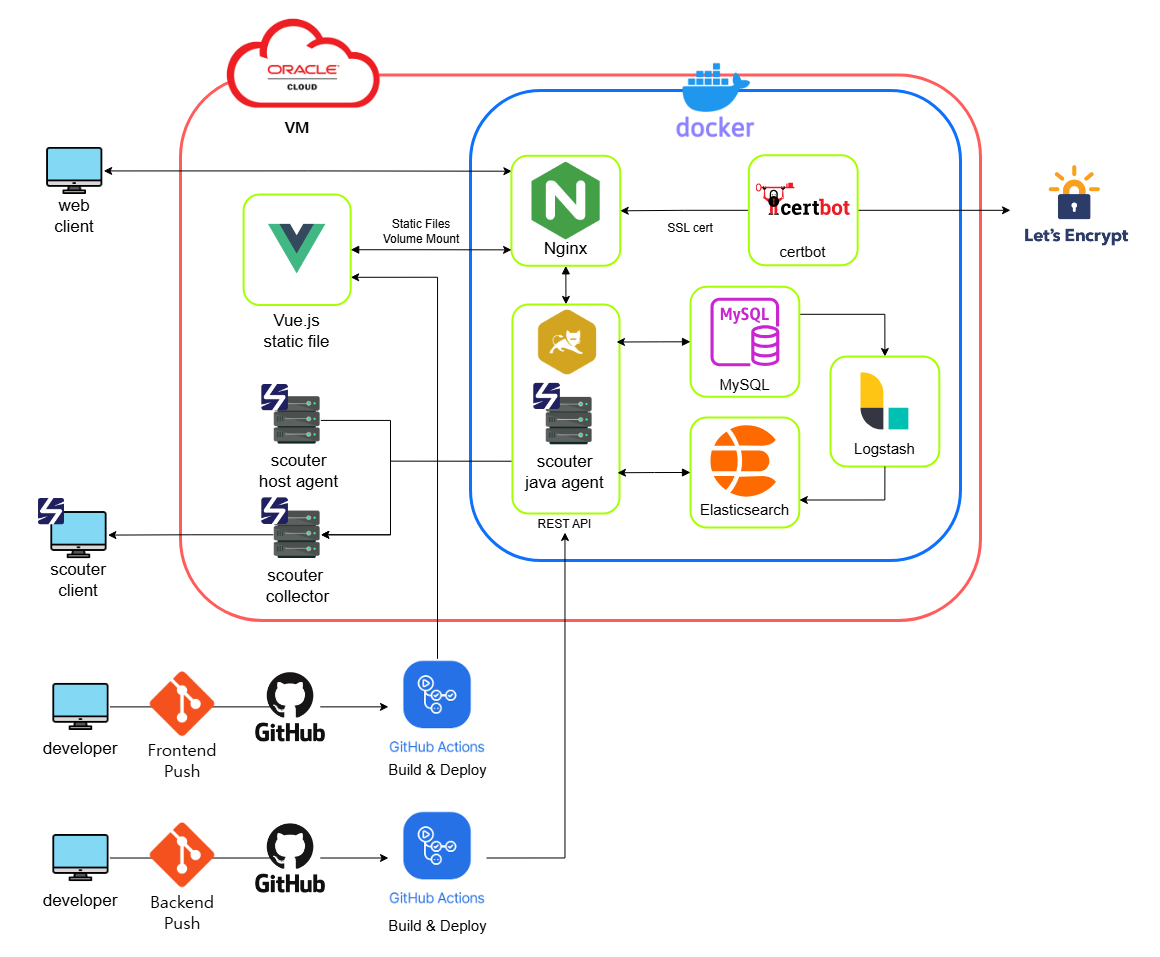
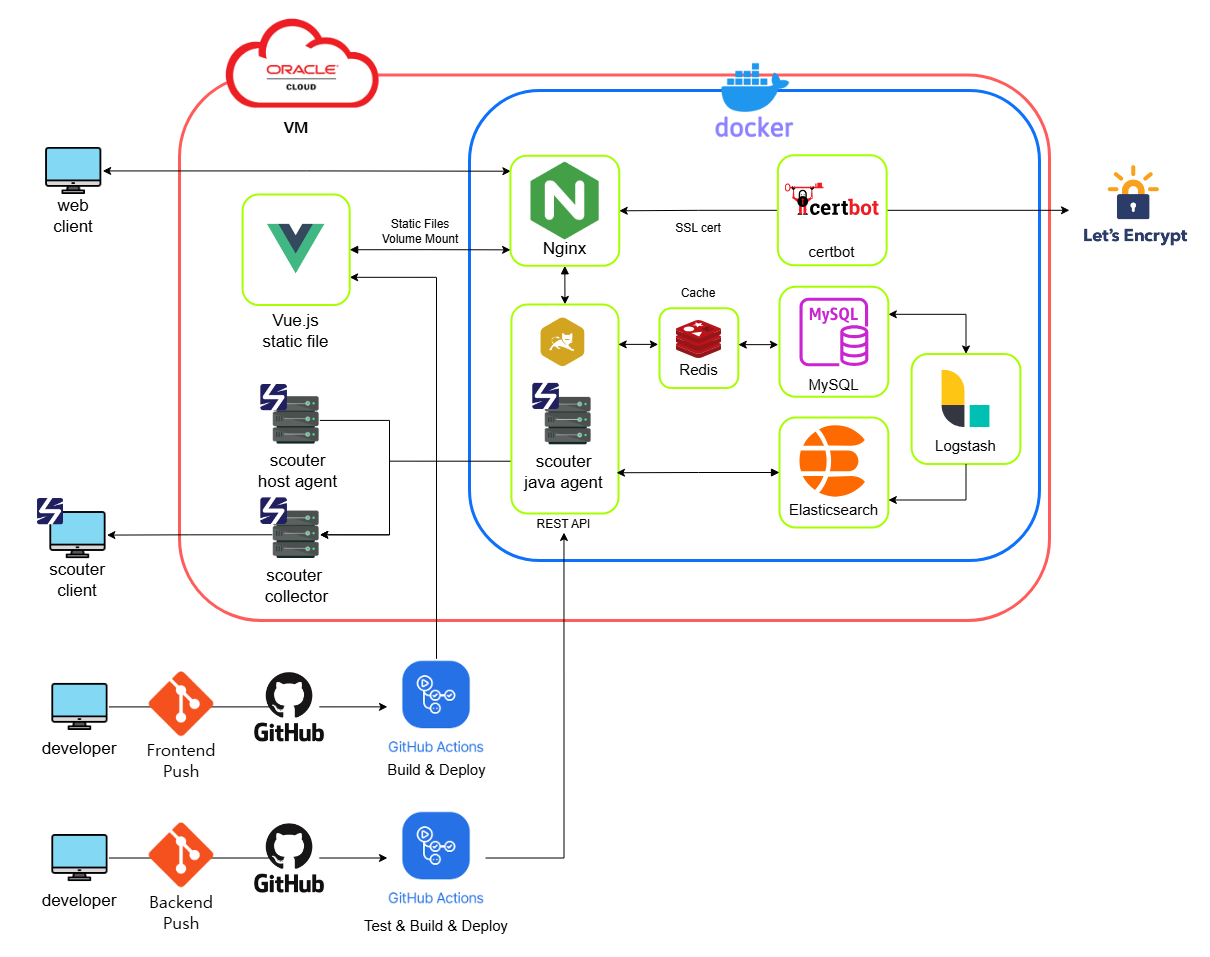
update

diff --git a/resume.html b/resume.html
@@ -113,7 +113,7 @@
                     </ul>
                 </div>
 
-                <p class="area_title">경력 및 프로젝트 경험</p>
+                <p class="area_title">경력</p>
                 <p class="area_sub_title">2019.10 ~ 2024.08 (총 4년 11개월)</p>
                 <div class="line"></div>
                 <div class="section flex">
@@ -157,16 +157,17 @@
                 </div>
                 <p class="exp_content_list_title">문제 해결</p>
                 <ul class="exp_content_list">
-                    <li class="exp_content bold">개발팀 Next.js 이해도 부족 문제</li>
+                    <li class="exp_content bold" style="margin-bottom: 5px;">개발팀 Next.js 이해도 부족 문제</li>
                     <li class="exp_content list">
-                        주문/결제 데이터 관리 백오피스의 사용성과 유지보수성을 높이기 위해서 Angular, Vue, React와 같은 프레임워크나 라이브러리를 고려할 수 있었지만 Next.js의 디렉토리 기반 라우팅 기능과
-                        SSR을 쉽게 구현할 수 있는 등 초기 로딩 속도와 생산성을 높일 수 있다는 큰 장점이 있어 Next.js를 선택하게 되었습니다.
-                        당시 저는 Next.js에 대해 지식이 부족했기에 개인적으로 학습하여 기초 개념을 익혀나갔지만 개발팀의 Next.js에 대한 이해도가 부족하다는 문제가 있었습니다.
+                        <b>상황: </b>Angular, Vue, React와 같은 프레임워크나 라이브러리를 고려할 수 있었지만 Next.js의 디렉토리 기반 라우팅 기능과
+                        SSR을 쉽게 구현할 수 있는 등 초기 로딩 속도와 생산성 등을 높일 수 있다는 큰 장점이 있어 Next.js를 선택하게 되었으나
+                        개발팀의 Next.js에 대한 이해도가 부족하다는 문제 발생.
+                    </li>
+                    <li class="exp_content list" style="margin-top: 5px;">
+                        <b>과정 및 결과: </b>Next.js를 선택한 이유에 대해 체계적으로 문서화하여 개발 팀원들을 초청해 <b>세미나 진행.</b>
                         <br/>
-                        <br/>
-                        이를 위해 Next.js를 선택한 이유에 대해 체계적으로 문서화하여 개발 팀원들을 초청해 세미나를 진행하였습니다.
                         세미나에서는 기존 Nexacro로 개발된 백오피스의 단점을 설명 후 기존 백오피스의 일부 페이지를 Next.js로 구현한 예시와 함께
-                        디렉토리 기반 라우팅, SSR 등 주요 개념과 장점을 다뤘습니다. 이를 통해 개발 팀원들의 Next.js 마이그레이션에 대한 긍정적인 반응과 Next.js에 대한 기본적인 이해를 갖출 수 있게 되었습니다.
+                        디렉토리 기반 라우팅, SSR 등 주요 개념과 장점에 대해 다룬 결과 개발 팀원들의 Next.js 마이그레이션에 대한 긍정적인 반응과 Next.js에 대한 기본적인 이해를 갖출 수 있게됨.
                     </li>
                 </ul>
 
@@ -205,20 +206,20 @@
 
                     <p class="exp_content_list_title">문제 해결</p>
                     <ul class="exp_content_list">
-                        <li class="exp_content bold">서비스 간 통신 구조에서 예외 발생 시 데이터 무결성 깨지는 문제</li>
+                        <li class="exp_content bold" style="margin-bottom: 5px;">서비스 간 통신 구조에서 예외 발생 시 데이터 무결성 깨지는 문제</li>
                         <li class="exp_content list">
-                            협력사에게 제공해야 했던 API 중 회원 정보 수정 API는 현 백엔드 서버와 타 백엔드 서버 양쪽 DB 데이터를 수정해야 했기에
-                            백엔드 서버 하나라도 예외가 발생하면 데이터 무결성이 깨지는 문제가 있었습니다.
+                            <b>상황: </b>협력사에게 제공해야 했던 API 중 회원 정보 수정 API는 현 백엔드 서버와 타 백엔드 서버 양쪽 DB 데이터를 수정해야 했기에
+                            백엔드 서버 하나라도 예외가 발생하면 <b>데이터 무결성</b>이 깨지는 상황 발생.
+                        </li>
+                        <li class="exp_content list" style="margin-top: 5px;">
+                            <b>과정 및 결과: </b>@Transactional 어노테이션을 활용해 메소드 트랜잭션 단위 관리 및
+                            타 서비스와의 통신에서 발생할 예외를 처리하는 <b>롤백 시나리오</b>를 구현하여 데이터 무결성을 유지함.
                             <br/>
+                            1. 타 백엔드 API 먼저 호출하여 해당 API에서 예외 발생 시 트랜잭션 롤백 후 클라이언트에게 실패 응답 반환
                             <br/>
-                            이를 해결하기 위해 메소드에 @Transactional 어노테이션을 적용하여 예외 발생 시 트랜잭션 롤백 되도록 구성하고
-                            타 서비스와의 통신 과정에서 발생할 예외를 대비해 <b>롤백 시나리오</b>를 세워 구현한 결과 데이터 무결성을 유지할 수 있었습니다.
+                            2. 타 백엔드 API가 성공 응답 시 본 시스템에서 데이터 수정 진행. 이때 예외 발생 시 롤백 후 타 백엔드 서버 롤백 API 호출 후 클라이언트에게 실패 응답 반환
                             <br/>
-                            1. 타 백엔드 API를 먼저 호출하여 타 백엔드에서 예외 발생 시 롤백 후 클라이언트에게 실패 응답
-                            <br/>
-                            2. 타 백엔드 API 성공 응답 받을 경우 현 백엔드에서 데이터 수정 진행하여 예외 발생 시 롤백 후 타 백엔드 서버 롤백 API 호출
-                            <br/>
-                            3. 모두 성공 시 클라이언트에게 성공 응답
+                            3. 모든 단계 성공적으로 완료 시 클라이언트에게 성공 응답 반환
                         </li>
                     </ul>
 
@@ -290,11 +291,12 @@
 
                         <p class="exp_content_list_title">문제 해결</p>
                         <ul class="exp_content_list">
-                            <li class="exp_content bold">공통적으로 분류되는 수정 대상 코드 공통 모듈로 처리</li>
+                            <li class="exp_content bold" style="margin-bottom: 5px;">공통적으로 분류되는 수정 대상 코드 공통 모듈로 처리</li>
                             <li class="exp_content list">
-                                회원/주문 관계가 변경됨으로 인해 회원 정보를 보여주는 페이지에 회원 별 진행 중인 학습 상품을 보여줘야 했던 모든 부분을 수정해야 했으나
-                                각각 쿼리문을 수정하기엔 비용이 크다고 판단되어 공통 모듈을 작성해 회원 ID들의 학습 상품 정보들을 조회하도록 하여
-                                유지보수성을 높이고 테스트 케이스를 작성해 코드의 무결성을 높였습니다.
+                                <b>상황: </b>회원/주문 관계가 변경됨으로 인해 회원 별 진행 중인 학습 상품을 보여줘야 했던 모든 부분을 수정해야하는 상황.
+                            </li>
+                            <li class="exp_content list" style="margin-top: 5px;">
+                                <b>과정 및 결과: </b>회원 ID 별 학습 상품 정보 조회하는 공통 모듈 작성 및 적용하여 생산성과 재사용성을 높이고 테스트 케이스를 작성해 코드의 무결성을 높임.
                             </li>
                         </ul>
 
@@ -380,18 +382,14 @@
 
                     <p class="exp_content_list_title">문제 해결</p>
                     <ul class="exp_content_list">
-                        <li class="exp_content bold">데이터 처리의 느린 성능 및 정확성 문제</li>
+                        <li class="exp_content bold" style="margin-bottom: 5px;">데이터 처리의 느린 성능 및 정확성 문제</li>
                         <li class="exp_content list">
-                            약 10만 건 이상의 raw 데이터를 통계 데이터로 가공하여 저장하는 배치 성능 테스트를 진행하기 위해
-                            개발 환경 DB에 약 10만 건의 데이터를 세팅 후 실행해 본 결과
-                            단일 스레드 기반으로 실행되기에 약 3분 정도 소요되었으며 처리 속도가 느리다는 문제가 있었고 운영 환경의 데이터로 처리할 경우 데이터 정확성을 보장하기 어려웠습니다.
-                            <br/>
-                            <br/>
-                            이를 해결하기 위해 <b>Fork/Join 프레임워크</b>를 통해 데이터를 병렬로 분산 처리하는 방식을 도입하여
-                            데이터 처리 작업을 여러 작업 단위로 나눠 병렬로 실행함으로써 배치 처리 시간을 약 <b>67%</b> 단축(3분 → 1분)하여 느린 처리 속도를 개선할 수 있었고
-                            <br/>
-                            raw 데이터를 정확하게 처리하기 위해 Fake raw 데이터를 설정 후 정확한 통계 데이터로 가공이 되는지에 대한 테스트 코드를 작성하여
-                            데이터 처리 로직의 무결성을 높인 결과 운영 환경에서 배치를 통해 정확한 통계 데이터를 만들어 낼 수 있었습니다.
+                            <b>상황: </b>약 10만 건 이상의 raw 데이터를 통계 데이터로 가공하여 저장하는 배치 성능 테스트를 진행하기 위해 개발 환경 DB에 약 10만 건의 데이터를 세팅 후 실행해 본 결과
+                            단일 스레드 기반으로 약 3분 정도 소요되어 처리 속도가 느리다는 문제가 있었고 운영 환경의 데이터로 처리할 경우 데이터 정확성을 보장하기 어려웠음.
+                        </li>
+                        <li class="exp_content list" style="margin-top: 5px;">
+                            <b>과정 및 결과: </b><b>Fork/Join 프레임워크</b>를 통해 데이터를 병렬로 분산 처리하는 방식을 도입하여 배치 처리 시간을 약 <b>67%</b> 단축(3분 → 1분)하여 처리 속도를 개선할 수 있었고
+                            Fake raw 데이터를 기반으로 정확한 통계 데이터로 가공 되는지에 대해 테스트 케이스를 작성하고 검증한 결과 운영 환경에서도 정확한 통계 데이터를 만들어 낼 수 있었음.
                         </li>
                     </ul>
 
@@ -460,6 +458,15 @@
                 <p class="large_sub_title">사이드 프로젝트 1인 개발(2023.06 ~ 진행중)</p>
                 <p style="font-weight: 500; margin-top: 10px;">
                     다양한 분야의 용어를 퀴즈 형태로 등록하여 학습할 수 있는 용어 암기 서비스입니다.
+                    <br/>
+                    <br/>
+                    <b>개발 계기</b>
+                    <br/>
+                    어떤 직종에 종사하거나 시험 준비 과정에서 용어를 학습할 필요성이 느껴질 때가 많습니다.
+                    <br/>
+                    다만 용어의 정의는 사람마다 다르게 생각할 수 있고, 관점에 따라 용어의 뜻이 달라질 수 있어
+                    <br/>
+                    용어의 다양한 정의를 한곳에 모으고 단순 암기를 넘어 깊이 있는 학습을 돕고자 WIZLQ를 개발하게 되었습니다.
                 </p>
                 <p style="font-weight: bold; margin-top: 10px;">서비스 URL</p>
                 <a href="https://wizlq.com" target="_blank" class="link" style="width: 135px;">https://wizlq.com</a>
@@ -498,6 +505,7 @@
                         <p class="skill scouter">Scouter</p>
                         <p class="skill elasticsearch">Elasticsearch</p>
                         <p class="skill logstash">Logstash</p>
+                        <p class="skill redis">Redis</p>
                     </div>
                 </div>
             </div>
@@ -510,74 +518,69 @@
             <div class="content">
                 <p class="exp_content_list_title">문제 해결</p>
                 <ul class="exp_content_list">
-                    <li class="exp_content bold">클라이언트 인증 상태 유지 문제</li>
-                    <li class="exp_content list" style="margin-bottom: 15px;">
-                        프로젝트 초기엔 세션 기반 인증 방식을 도입하여 로그인 후 클라이언트의 인증 상태를 백엔드 서버 세션으로 관리했으나
-                        서버 재시작 시 세션 데이터 손실되어 사용자가 재로그인이 해야 하는 문제가 발생하였습니다.
-                        <br/>
-                        <br/>
-                        이를 해결하기 위해서 <b>Session Clustering</b>이나 별도 <b>세션 저장소</b> 등을 활용해 세션 정보를 유지하는 방법을 검토했습니다.
-                        하지만 당시 백엔드 서버는 단일 인스턴스로 구성되어 있었고 서버를 하나 이상 추가하여 모든 서버가 동일한 세션 정보를 공유하도록 설정할 경우
-                        메모리 사용량이 많아질 것이라고 판단했고
-                        <br/>
-                        Redis 같은 저장소를 도입하여 세션 정보를 유지할 수는 있지만
-                        추가적인 네트워크 비용과 Redis의 장애를 대비하기 위해 클러스터링 환경을 구성해야 하는 등 운영 복잡성이 증가한다는 문제가 있어
-                        다른 방법을 알아보던 중 <b>JWT 기반 인증 방식</b>을 알게 되었습니다.
-                        <br/>
-                        <br/>
-                        JWT는 로그인 후 서버가 클라이언트에게 유효한 Access Token을 발급하고, 이후 클라이언트는 요청 시 전달되는 Access Token을 서버에서 유효성 검증만을 하는 구조로 동작되기 때문에
-                        <b>JWT 기반 인증 방식을 도입한 결과</b> 백엔드 서버는 <b>Stateless</b> 구조로 전환되어 RESTful 아키텍처 원칙을 준수하는 등 확장성을 높일 수 있었고
-                        서버가 재시작되어도 클라이언트는 인증 상태를 유지할 수 있게 되었습니다.
+                    <li class="exp_content bold" style="margin-bottom: 5px;">클라이언트 인증 상태 유지 문제</li>
+                    <li class="exp_content list">
+                        <b>상황: </b>프로젝트 초기엔 세션 기반 인증 방식을 도입하여 로그인 후 클라이언트의 인증 상태를 백엔드 서버 세션으로 관리했으나
+                        서버 재시작 시 세션 데이터 손실되어 사용자가 재로그인이 해야 하는 문제 발생.
+                    </li>
+                    <li class="exp_content list" style="margin-top: 5px;">
+                        <b>과정: </b>Session Clustering</b>이나 별도 <b>세션 저장소</b> 등을 활용해 세션 정보를 유지하는 방법을 검토한 결과
+                        Session Clustering은 사용자가 많아질 수록 메모리 사용량이 많아질 것이라고 판단했고 별도 세션 저장소를 도입할 경우
+                        추가적인 네트워크 비용과 저장소의 장애를 대비하기 위해 클러스터링 환경을 구성해야 하는 등 운영 복잡성의 증가 문제로 인해 JWT 방식을 도입하기로 결정.
+                    </li>
+                    <li class="exp_content list" style="margin-top: 5px;">
+                        <b>결과: </b>JWT는 로그인 후 서버가 클라이언트에게 유효한 Access Token을 발급하고, 이후 클라이언트는 요청 시 전달되는 Access Token을 서버가 받아 유효성 검증만을 하는 구조로 동작되기 때문에
+                        백엔드 서버는 <b>Stateless</b> 구조로 전환되어 성능과 RESTful 아키텍처 원칙을 준수하는 등 확장성을 높일 수 있었고 서버가 재시작되어도 클라이언트는 인증 상태를 유지할 수 있게 되었음.
                     </li>
 
-                    <li class="exp_content bold">로그 파일의 디스크 용량 문제</li>
-                    <li class="exp_content list" style="margin-bottom: 15px;">
-                        로그 라이브러리로 사용된 <b>Log4j2</b>를 이용해 로그를 기록했지만 로그 파일이 지속적으로 증가함으로써 추후 디스크 용량을 초과할 것이란 문제가 있었습니다.
-                        <br/>
-                        <br/>
-                        이를 해결하기 위해 최소한의 로그가 기록될 수 있도록 INFO 레벨에서 DEBUG 레벨로 제한하고 <b>로테이션 정책</b>을 설정하여
-                        매일 자정마다 새로운 로그 파일로 교체되도록 설정하고, 최대 7일 분량의 로그 파일만 유지되도록 구성했습니다.
-                        <br/>
-                        그 결과 7일 이전 로그 파일은 자동으로 삭제하면서 로그 파일의 크기를 유지하고 안정성을 확보할 수 있었습니다.
+
+                    <li class="exp_content bold" style="margin-bottom: 5px; margin-top: 10px;">로그 파일의 디스크 용량 문제</li>
+                    <li class="exp_content list">
+                        <b>상황: </b>로그 라이브러리로 사용된 <b>Log4j2</b>를 이용해 로그 파일을 저장했지만 로그 파일이 지속적으로 증가함으로써 추후 디스크 용량을 초과할 것이란 문제 발생.
                     </li>
-                    <li class="exp_content bold">Table Full Scan 문제</li>
-                    <li class="exp_content list" style="margin-bottom: 15px;">
-                        모든 쿼리문은 <b>DB Optimizer</b>의 실행 계획을 통해 인덱스 참조 여부를 확인하여 최적화된 쿼리를 작성했습니다.
-                        하지만 퀴즈 검색 쿼리의 경우 제목과 내용을 검색 조건으로 LIKE %% 형태의 조건문 사용한 것이 <b>Full Table Scan</b>을 발생하는 것으로 확인되었습니다.
-                        현재 데이터양은 많지 않았지만 데이터가 증가할 경우를 대비하기 위해 개선이 필요했습니다.
+                    <li class="exp_content list" style="margin-top: 5px;">
+                        <b>과정: </b><b>Rolling Policy</b>를 활용해 매일 자정마다 새로운 로그 파일로 교체되도록 설정하고,
+                        최대 7일 분량의 로그 파일만 유지되도록 구성
+                    </li>
+                    <li class="exp_content list" style="margin-top: 5px;">
+                        <b>결과: </b>7일 이전 로그 파일은 자동으로 삭제되면서 로그 파일의 크기를 유지하고 안정성을 확보할 수 있었음.
+                    </li>
+
+
+                    <li class="exp_content bold" style="margin-bottom: 5px; margin-top: 10px;">Table Full Scan 문제</li>
+                    <li class="exp_content list">
+                        <b>상황: </b>모든 쿼리문은 <b>DB Optimizer</b>의 실행 계획을 통해 인덱스 참조 여부를 확인하여 최적화된 쿼리를 작성했으나 퀴즈 검색 쿼리의 경우
                         <br/>
-                        <br/>
-                        이를 위해 <b>Full Text Index</b>를 고려했지만 <b>Full Text Index</b>를 참조하기 위한 쿼리 작성 방식이 추후 검색 조건의 변경 가능성으로 인해 복잡성이 존재했고
-                        데이터가 많아질수록 그만큼 많은 계산 작업이 필요하기 때문에 단기적으로 성능 개선 효과를 볼 수 있지만 장기적으론 확장성과 유연성이 부족하다고 생각하였습니다.
+                        제목과 내용을 'LIKE %%' 조건문을 사용한 것이 <b>Full Table Scan</b> 발생.
+                        현재 데이터양은 많지 않았지만 데이터가 증가할 경우를 대비하기 위해 개선이 필요했음.
+                    </li>
+                    <li class="exp_content list" style="margin-top: 5px;">
+                        <b>과정: </b><b>Full Text Index</b>를 고려했지만 데이터가 많아질수록 그만큼 많은 계산 작업이 필요하기 때문에
+                        단기적으로 성능 개선 효과를 볼 수 있지만 장기적으론 확장성과 쿼리의 복잡성으로 인해 유연성이 부족하다고 생각되었음.
                         <br/>
                         반면에 <b>Elasticsearch</b>는 DB와 독립적으로 동작하는 분산형 검색 엔진으로써 높은 확장성과 성능을 가지는 특징을 가지고 있기 때문에
-                        검색 작업을 맡는 독립적인 엔진인 <b>Elasticsearch</b>를 도입하여
-                        DB 부하를 줄이고, 다양한 검색 기능과 확장성을 높이는 것이 시스템 개선에 적합하다고 판단하여 <b>Elasticsearch</b>를 도입하게 되었습니다.
-                        <br/>
-                        <br/>
-                        약 100만 건의 공공 데이터를 대상으로 LIKE %% 검색과 <b>Elasticsearch</b>를 이용한 조회 성능 비교 결과 1800ms -> <b>45ms</b>로 단축되어 약 <b>97%</b>의 성능 향상과
-                        데이터양이 증가해도 검색 속도를 유지할 수 있는 결과를 얻었습니다.
-                        <br/>
-                        또한 <b>RDB</b>와 <b>Elasticsearch</b>의 데이터 일관성을 위해 <b>Logstash</b>를 도입하여 주기적으로 <b>Elasticsearch</b>의 Document 데이터를 갱신하도록 파이프라인을 구성하여 데이터 일관성을 유지할 수 있었습니다.
+                        검색 작업을 맡는 독립적인 엔진인 <b>Elasticsearch</b>를 도입하게 되었음.
                     </li>
-                    <li class="exp_content bold">반복되는 사용자 정보 조회 로직 문제</li>
+                    <li class="exp_content list" style="margin-top: 5px;">
+                        <b>결과: </b>약 100만 건의 공공 데이터를 대상으로 LIKE %% 검색과 <b>Elasticsearch</b>를 이용한 검색 성능 비교 결과 1800ms -> <b>45ms</b>로 단축되어 약 <b>97%</b>의 성능 향상과
+                        데이터양이 증가해도 검색 속도를 유지할 수 있는 결과를 얻음.
+                        <br/>
+                        또한 <b>RDB</b>와 <b>Elasticsearch</b>의 데이터 일관성을 위해 <b>Logstash</b>를 도입하여 주기적으로 <b>Elasticsearch</b>의 Document 데이터를 갱신하도록 파이프라인을 구성하여 데이터 일관성을 유지.
+                    </li>
+
+
+                    <li class="exp_content bold" style="margin-bottom: 5px; margin-top: 10px;">반복되는 사용자 정보 조회 로직 문제</li>
                     <li class="exp_content list">
-                        API 중 호출한 사용자의 userId를 조회하여 데이터만 변경 및 삭제하는 API들이 있는데
-                        비즈니스 로직 내에서 매번 인증된 사용자 정보를 조회하는 <b>코드를 반복적으로 작성</b>하니 유지보수성이 떨어지고 비효율적이라고 생각되었습니다.
-                        공통 로직으로 분리할 수 있는 방법을 구글링으로 찾던 중
-                        Argument Resolver를 이용하면 메소드 특정 타입의 파라미터에 데이터를 주입할 수 있는 방법이 있다고 하여 적용하게 되었습니다.
-                        <br/>
-                        <br/>
-                        ex)
-                        <br/>
-                        @PostMapping("/api/quiz")
-                        <br/>
-                        public ApiResponse create(@RequestBody @Valid QuizCreateReq req, /* 사용자 정보 조회용 어노테이션 */ UserInfo userInfo){ ... }
-                        <br/>
-                        <br/>
-                        먼저 특정 타입의 파라미터를 처리하기 위해 <b>HandlerMethodArgumentResolver</b>를 구현했습니다.
-                        해당 <b>Resolver</b>는 <b>SecurityContextHolder</b>에 저장된 인증 정보를 가져와 사용자 정보 객체를 생성 후 return 하여 실제 파라미터에 주입하는 구조로 재구성한 결과
-                        중복된 코드를 제거할 수 있었고 보다 쉽게 사용자 정보를 얻을 수 있어 유지보수성을 높일 수 있었습니다.
+                        <b>상황: </b>API 중 호출한 사용자의 userId를 조회하여 데이터만 변경 및 삭제하는 API들이 있는데
+                        비즈니스 로직 내에서 매번 인증된 사용자 정보를 조회하는 <b>코드를 반복적으로 작성</b>하니 유지보수성이 떨어지는 문제 발생.
+                    </li>
+                    <li class="exp_content list" style="margin-top: 5px;">
+                        <b>과정: </b>공통 로직으로 분리할 수 있는 대안을 찾던 중 Argument Resolver를 활용하여 메소드 특정 타입의 파라미터에 데이터를 주입할 수 있는 방법을 알게되어 적용하게 되었음.
+                        먼저 특정 타입의 파라미터를 처리하기 위해 <b>HandlerMethodArgumentResolver</b>를 구현하여
+                        <b>SecurityContextHolder</b>에 저장된 사용자 정보를 가져와 객체를 생성 후 실제 파라미터에 주입하는 구조로 재구성
+                    </li>
+                    <li class="exp_content list" style="margin-top: 5px;">
+                        <b>결과: </b>중복된 코드를 제거할 수 있었고 유지보수성을 높일 수 있었음.
                     </li>
                 </ul>
             </div>

diff --git a/assets/css/resume.css b/assets/css/resume.css
@@ -279,6 +279,9 @@ body .container .section.flex {
 .skills_area .skill.querydsl {
   background-color: #E14D3A;
 }
+.skills_area .skill.redis {
+  background-color: #D92D2A;
+}
 
 .develop_cause {
   background-color: #f3f3f3;

diff --git a/assets/css/resume.scss b/assets/css/resume.scss
@@ -313,6 +313,9 @@ body {
   .skill.querydsl{
     background-color: #E14D3A;
   }
+  .skill.redis{
+    background-color: #D92D2A;
+  }
 }
 
 .develop_cause{
